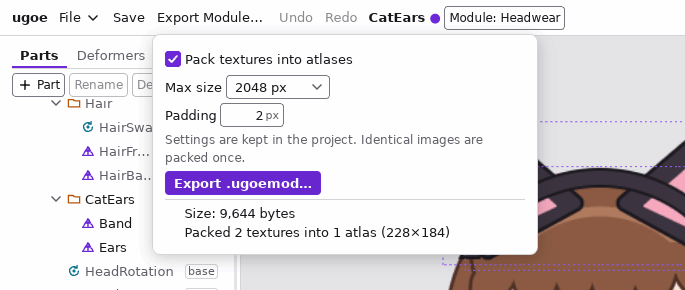
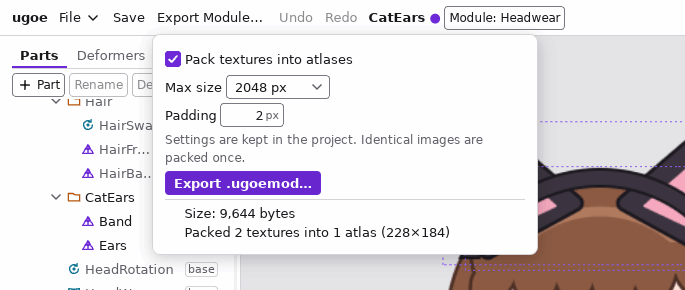
docs: retake manual images after the tree footer change (T0981)
- docs(editor): retake manual images whose tree changed after the footer fix
- docs(tasks): record T0981 results and move to review

diff --git a/docs/tasks/T0981-manual-retake-tree-footer-images.md b/docs/tasks/T0981-manual-retake-tree-footer-images.md
@@ -1,7 +1,7 @@
 ---
 id: T0981
 title: "マニュアル: T1676 の後に、ツリーの下端が変わった 5 枚の画像を撮り直す"
-status: in-progress
+status: done
 milestone: M10
 crates: [docs, tests]
 depends_on: []
@@ -18,10 +18,10 @@ T1676 でエディタのツリーの下の欄 (`TreePanel.svelte` の `.footer`)
 
 ## 受け入れ条件
 
-- [ ] `just e2e --update-images --only editor` で撮り直し、上の 5 枚 (と、T0980 の後の画面の変更で変わった画像があればそれも) だけを入れ、
+- [x] `just e2e --update-images --only editor` で撮り直し、上の 5 枚 (と、T0980 の後の画面の変更で変わった画像があればそれも) だけを入れ、
       アニメーション (呼吸・物理)・経過の秒・ポートの番号などの違いだけの画像は前のままにした。どの画像を入れたかと変わった理由をメモに書いた
-- [ ] 入れた画像をすべて開き、撮った機械の固有のもの (/home・worktree・mbx のハッシュ・乱数の一時フォルダ) が写っていないことを確かめた
-- [ ] `just e2e --only editor` と `just ci` が通る
+- [x] 入れた画像をすべて開き、撮った機械の固有のもの (/home・worktree・mbx のハッシュ・乱数の一時フォルダ) が写っていないことを確かめた
+- [x] `just e2e --only editor` と `just ci` が通る
 
 ## 参考
 
@@ -31,3 +31,30 @@ T1676 でエディタのツリーの下の欄 (`TreePanel.svelte` の `.footer`)
 
 - T0066 で起票した (元の候補: T1676 (ツリーの下の欄の付け方を直したので、5 枚の下端 10px が変わる))。
 - 急がない。ほかのタスクで画像を撮り直すことになったら、そのタスクで一緒に入れて、このタスクを閉じてよい。
+
+### やったこと (claude-worker-T0981)
+
+- `just e2e --update-images --only editor` (main 743b771e の上) で撮り直すと 28 枚が変わった。前の画像との差 (しきい値 3%) の場所を測り、1 枚ずつ見て分けた。
+- **入れた 7 枚:**
+  - ツリーの下端の 10px の帯で、覗いていた行の端が地の色になった (T1676 の下の欄の付け方): `ai-normal-maps`・`lighting-point`・`lighting`・
+    `verify`・`module-base-readonly`。ほかの差は 3〜6px の角のにじみ (ボタンの角・取っ手) だけ。
+  - 木を一番下まで送った画像で、木の行が 2px 上に寄った (T1676 で下の欄に `padding-top` が付き、送れる長さが延びた): `module-workspace`・
+    `module-export-atlas` (左の木の部分)。もう一度 `just e2e --manual --only editor` で撮っても同じ位置になる (`module-workspace` は差 0 画素、
+    `module-export-atlas` は 105 画素のにじみだけ) ので、画面の変更による差と見た。T0980 の後のエディタの画面の変更は T1676 だけ (ほかは ui-audit の検査の変更)。
+- **戻した 21 枚:** 呼吸・物理・ポーズのアニメーションとパラメータの値の差 (`preview`・`preview-tracking`・`preview-module-pose`・`dress-up-preview`・
+  `module-compare-highlight`・`module-compare-pose`・`physics-preview`・`depth-rotation` の描画)、重ねて描くスクロールバーが出ているかどうかの差
+  (`screen`・`timeline`・`tools-mesh-edit`・`depth-rotation` の右端)、MCP の待ち受けのポートの番号・経過の秒 (`mcp-connect`・`mcp-claude-desktop`・
+  `mcp-approval`)、数画素の角のにじみだけ・差 0 (`ai-proposal`・`keyform-grid`・`module-glue`・`tools-rotation`・`physics-rig`・`timeline-settings`・
+  `tools-warp-gizmo`)。
+- 入れた 7 枚をすべて開き、/home・worktree・mbx のハッシュ・乱数の一時フォルダが写っていないことを見た (パスの出る画面は無い)。
+  PNG の付帯情報と中の文字列にも無い (`identify -verbose`・`strings`)。
+- 説明の文 (docs/manual) と食い違う所は無い (文は直していない)。
+
+### 確かめたこと
+
+- `just e2e --update-images --only editor`: 通過。`just e2e --only editor`: 16 件通過。
+- `just ci`: 通過 (main 743b771e の上。前面で実行。終了コード 0)。
+
+### 起票の候補
+
+- なし。
